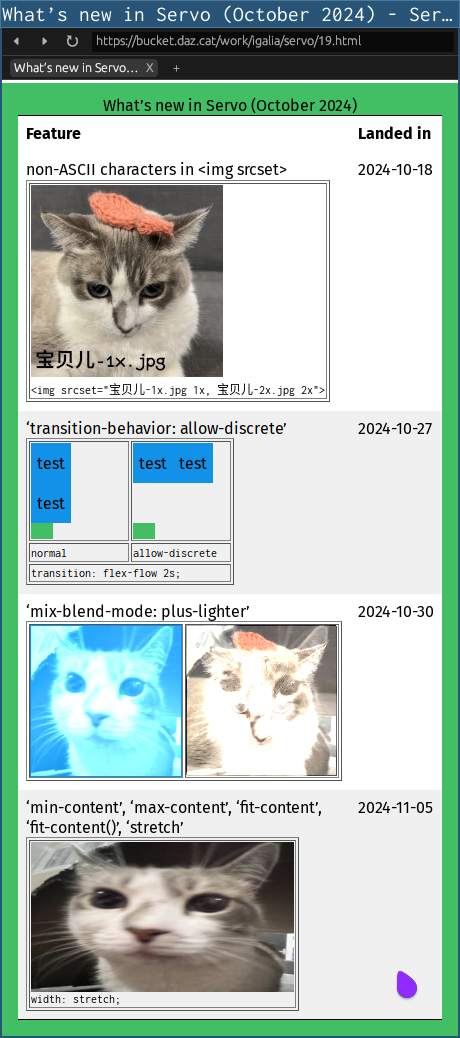
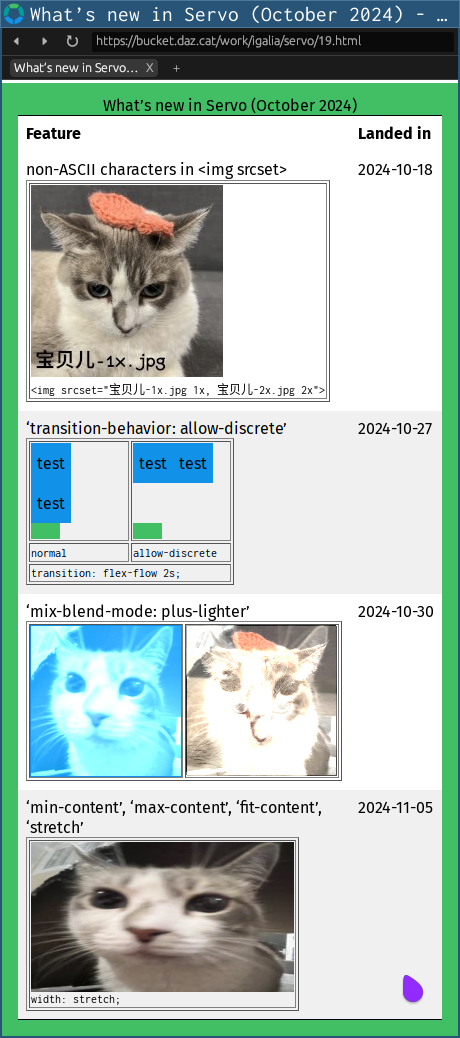
Fix mistake about fit-content()

diff --git a/_posts/2024-11-08-this-month-in-servo.md b/_posts/2024-11-08-this-month-in-servo.md
@@ -12,7 +12,7 @@ categories:
 
 Servo now supports **‘mix-blend-mode: plus-lighter’** ([@mrobinson](https://github.com/mrobinson), [#34057](https://github.com/servo/servo/pull/34057)) and **‘transition-behavior: allow-discrete’** ([@Loirooriol](https://github.com/Loirooriol), [#33991](https://github.com/servo/servo/pull/33991)), including in the ‘transition’ shorthand ([@Loirooriol](https://github.com/Loirooriol), [#34005](https://github.com/servo/servo/pull/34005)), along with the [fetch metadata request headers](https://w3c.github.io/webappsec-fetch-metadata/) **‘Sec-Fetch-Site’**, **‘Sec-Fetch-Mode’**, **‘Sec-Fetch-User’**, and **‘Sec-Fetch-Dest’** ([@simonwuelker](https://github.com/simonwuelker), [#33830](https://github.com/servo/servo/pull/33830)).
 
-We now have partial support for the CSS size keywords **‘min-content’**, **‘max-content’**, **‘fit-content’**, **‘fit-content()’**, and **‘stretch’** ([@Loirooriol](https://github.com/Loirooriol), [#33558](https://github.com/servo/servo/pull/33558), [#33659](https://github.com/servo/servo/pull/33659), [#33854](https://github.com/servo/servo/pull/33854), [#33951](https://github.com/servo/servo/pull/33951)), including in floats ([@Loirooriol](https://github.com/Loirooriol), [#33666](https://github.com/servo/servo/pull/33666)), atomic inlines ([@Loirooriol](https://github.com/Loirooriol), [#33737](https://github.com/servo/servo/pull/33737)), and elements with ‘position: absolute’ or ‘fixed’ ([@Loirooriol](https://github.com/Loirooriol), [#33950](https://github.com/servo/servo/pull/33950)).
+We now have partial support for the CSS size keywords **‘min-content’**, **‘max-content’**, **‘fit-content’**, and **‘stretch’** ([@Loirooriol](https://github.com/Loirooriol), [#33558](https://github.com/servo/servo/pull/33558), [#33659](https://github.com/servo/servo/pull/33659), [#33854](https://github.com/servo/servo/pull/33854), [#33951](https://github.com/servo/servo/pull/33951)), including in floats ([@Loirooriol](https://github.com/Loirooriol), [#33666](https://github.com/servo/servo/pull/33666)), atomic inlines ([@Loirooriol](https://github.com/Loirooriol), [#33737](https://github.com/servo/servo/pull/33737)), and elements with ‘position: absolute’ or ‘fixed’ ([@Loirooriol](https://github.com/Loirooriol), [#33950](https://github.com/servo/servo/pull/33950)).
 
 We’re implementing the **[SubtleCrypto](https://developer.mozilla.org/en-US/docs/Web/API/SubtleCrypto) API**, starting with full support for **crypto.subtle.digest()** ([@simonwuelker](https://github.com/simonwuelker), [#34034](https://github.com/servo/servo/pull/34034)), partial support for **generateKey()** with AES-CBC and AES-CTR ([@msub2](https://github.com/msub2), [#33628](https://github.com/servo/servo/pull/33628), [#33963](https://github.com/servo/servo/pull/33963)), and partial support for **encrypt()**, and **decrypt()** with AES-CBC ([@msub2](https://github.com/msub2), [#33795](https://github.com/servo/servo/pull/33795)).
 
